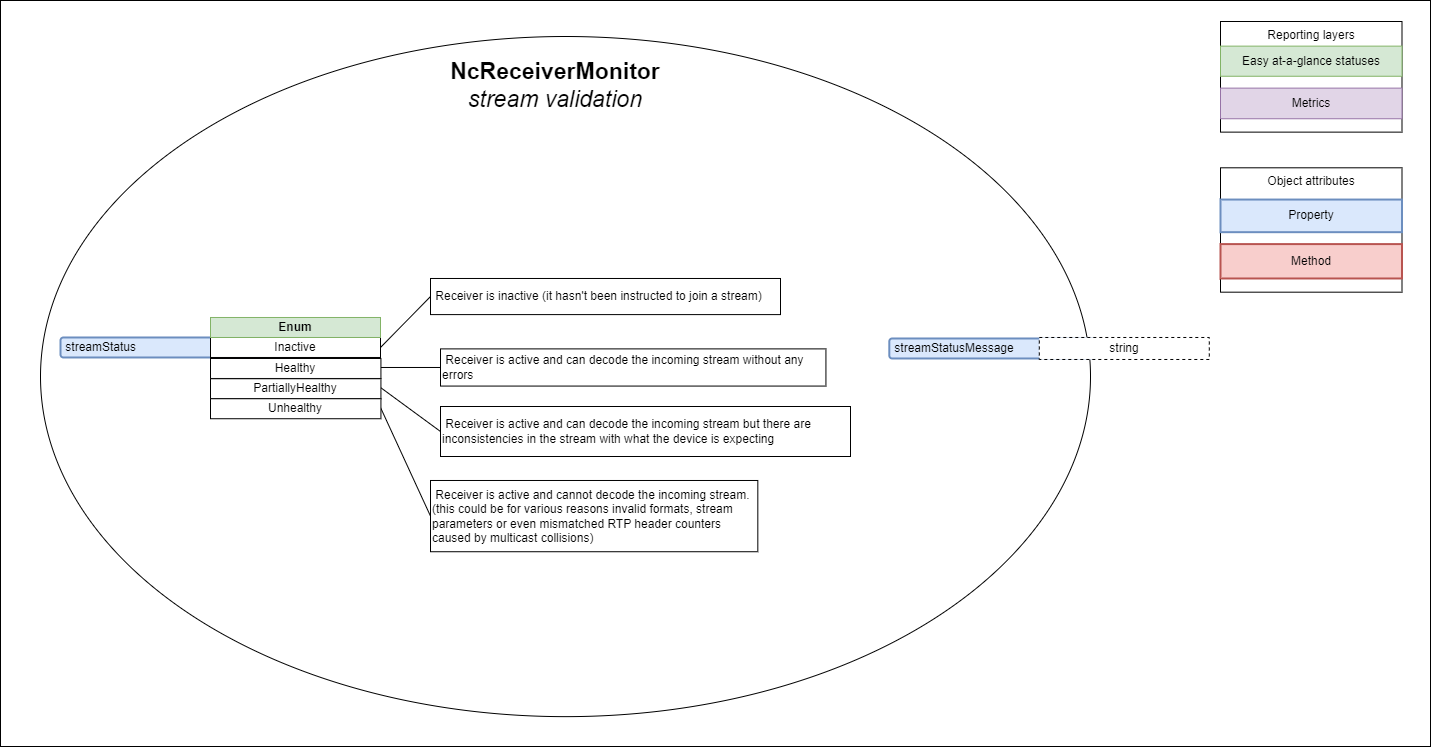
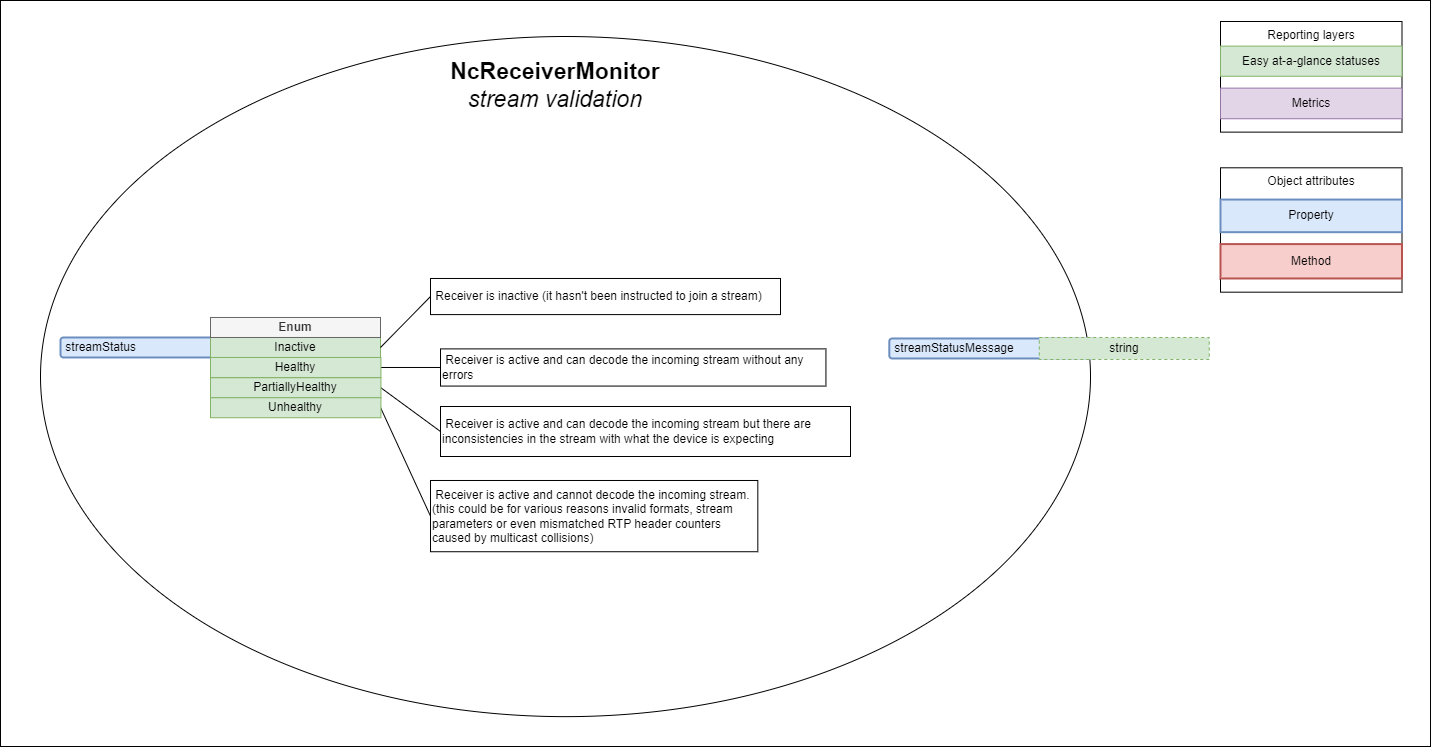
Update specs with feedback from meeting held today

Changed region(s): [[0.123, 0.4003, 0.2767, 0.585], [0.7072, 0.4311, 0.8609, 0.4926]]

diff --git a/docs/Overview.md b/docs/Overview.md
@@ -55,16 +55,16 @@ The technical model describing the monitoring requirements for a receiver is [Nc
 
 This model MUST inherit from the baseline status monitoring model [NcStatusMonitor](https://specs.amwa.tv/nmos-control-feature-sets/branches/publish-status-reporting/monitoring/#ncstatusmonitor)
 
-The purpose of the overall status is to abstract and combine the specific domain statuses of a monitor into a single status which can be more easily observed and displayed by a simple client. A good practice is to populate the status message property with details of the worst status causing the current value of the overall status.
+The purpose of the overallStatus is to abstract and combine the specific domain statuses of a monitor into a single status which can be more easily observed and displayed by a simple client. A good practice is to populate the status message property with details of the worst status causing the current value of the overallStatus.
 
-`Note`: The overall status might remain the same even when specific domain statuses change but the overall status message might change because a different combination of internal states is causing the current overall status value.
+`Note`: The overallStatus might remain the same even when specific domain statuses change but the overallStatusMessage might change because a different combination of internal states is causing the current overallStatus value.
 
-Devices MUST follow the rules listed below when mapping specific domain statuses in the combined overall status:
+Devices MUST follow the rules listed below when mapping specific domain statuses in the combined overallStatus:
 
-* When the Receiver is Inactive the overall status uses the Inactive option
-* When the Receiver is Active the overall status takes the worst state across the different domains (if one status is PartiallyHealthy (or equivalent) and another is Unhealthy (or equivalent) then the overall status would be Unhealthy)
-* The overall status is Healthy only when all domain statuses are either Healthy or a neutral state (e.g. Not used)
-* When activating a Receiver, it is expected for devices to go through a period of instability when connecting to the new stream. The overall status transitions immediately to a Healthy state and delays the reporting of errors for a configurable amount of time (see `statusReportingDelay`) after which it can transition to PartiallyHealthy or Unhealthy by taking the worst state across the different domains.
+* When the Receiver is Inactive the overallStatus uses the Inactive option
+* When the Receiver is Active the overallStatus takes the worst state across the different domains (if one status is PartiallyHealthy (or equivalent) and another is Unhealthy (or equivalent) then the overallStatus would be Unhealthy)
+* The overallStatus is Healthy only when all domain statuses are either Healthy or a neutral state (e.g. Not used)
+* When activating a Receiver, it is expected for devices to go through a period of instability when connecting to the new stream. The overallStatus transitions immediately to a Healthy state and delays the reporting of errors for a configurable amount of time (see `statusReportingDelay`) after which it can transition to PartiallyHealthy or Unhealthy by taking the worst state across the different domains.
 
 The `statusReportingDelay` property allows clients to customize the reporting delay used by devices to report statuses. Devices MUST use 3s as the default value. All status reporting properties MUST delay the transition to a more healthy state by the configured `statusReportingDelay` value and MUST only make the transition if the healthier state is maintained for the duration (this does not apply when starting from neutral values like Inactive or NotUsed where devices MUST make an immediate transition). All status reporting properties MUST make a transition to a less healthy state as soon as possible.
 
@@ -94,9 +94,9 @@ This includes the following specific items which cover the connectivity domain:
 |:--:|
 | _**Receiver connectivity**_ |
 
-### Link status monitoring
+### Link status
 
-Link status monitoring allows devices to expose the health of all the physical links associated with the receiver.
+The linkStatus property allows devices to expose the health of all the physical links associated with the receiver.
 
 Devices specify if:
 
@@ -104,9 +104,9 @@ Devices specify if:
 * Some of the interfaces are Down (equivalent to a PartiallyHealthy state)
 * All interfaces are Down (equivalent to an Unhealthy state)
 
-The link status message is a nullable property where devices can offer the reason and further details as to why the current status value was chosen.
+The linkStatusMessage is a nullable property where devices can offer the reason and further details as to why the current status value was chosen.
 
-Devices are recommended to publish information about which interfaces are down in the link status message.
+Devices are recommended to publish information about which interfaces are down in the linkStatusMessage.
 
 Example:
 
@@ -114,11 +114,9 @@ Example:
 NIC1, NIC2 are down
 ```
 
-### Connection status monitoring
+### Connection status
 
-Connection status monitoring allows devices to expose the health of the receiver with regards to receiving stream packets successfully.
-
-`Note`: Other connection problems like 802.1x authorization, DHCP and other causes are also reflected in the connection status.
+The connectionStatus property allows devices to expose the health of the receiver with regards to receiving stream packets successfully. Other connection problems like 802.1x authorization, DHCP and other causes are also reflected in the connectionStatus.
 
 Devices specify:
 
@@ -127,11 +125,11 @@ Devices specify:
 * PartiallyHealthy when the receiver is Active and is receiving all required packets but some form of loss recovery is being used (e.g. redundant leg recovery or some form of FEC)
 * Unhealthy when the receiver is Active and is either not receiving any packets or receiving packets but has unrecoverable errors (such as late or lost packets)
 
-The connection status message is a nullable property where devices can offer the reason and further details as to why the current status value was chosen.
+The connectionStatusMessage is a nullable property where devices can offer the reason and further details as to why the current status value was chosen.
 
 ### Late and lost packets
 
-The receiver monitoring model provides means of gathering metrics around late and lost stream packets. These are not statuses but instead enable further analysis when [link status](#link-status-monitoring) or [connection status](#connection-status-monitoring) indicate problems.
+The receiver monitoring model provides means of gathering metrics around late and lost stream packets. These are not statuses but instead enable further analysis when [link status](#link-status) or [connection status](#connection-status) indicate problems (are PartiallyHealthy or Unhealthy).
 
 The feature is expressed with the following methods:
 
@@ -147,8 +145,8 @@ The technical model describing the monitoring requirements for a receiver is [Nc
 This includes the following specific items which cover the synchronization domain:
 
 * Properties
-  * synchronizationStatus
-  * synchronizationStatusMessage
+  * externalSynchronizationStatus
+  * externalSynchronizationStatusMessage
   * synchronizationSourceId
 * Methods
   * ApproveCurrentSynchronizationSource
@@ -157,20 +155,20 @@ This includes the following specific items which cover the synchronization domai
 |:--:|
 | _**Receiver synchronization**_ |
 
-### Synchronization status monitoring
+### External synchronization status
 
-Synchronization status monitoring allows devices to expose the health of the receiver with regards to its time synchronization mechanisms.
+The externalSynchronizationStatus property allows devices to expose the health of the receiver with regards to its time synchronization mechanisms.
 
 Devices specify:
 
 * When the receiver is not using external synchronization (is a neutral state)
-* When the receiver synchronization status is healthy (locked to a synchronization source)
-* When the receiver synchronization status is partially healthy (partially locked to a synchronization source or suffered a sync source transition)
-* When the receiver synchronization status is unhealthy (not locked to a synchronization source)
+* When the receiver external synchronization status is healthy (locked to an approved external synchronization source)
+* When the receiver external synchronization status is partially healthy (locked to an external synchronization source and is expected to receive synchronization from multiple interfaces but some are not providing synchronization or suffered a sync source transition)
+* When the receiver external synchronization status is unhealthy (is expected to use external synchronization but is not locked to any external synchronization source)
 
-The synchronization status message is a nullable property where devices can offer the reason and further details as to why the current status value was chosen.
+The externalSynchronizationStatusMessage is a nullable property where devices can offer the reason and further details as to why the current status value was chosen.
 
-Devices are recommended to publish information about the previous synchronization source and interface retrieved from as well as the current synchronization source and interface retrieved from in the synchronization status message.
+Devices are recommended to publish information about the previous synchronization source and interface retrieved from as well as the current synchronization source and interface retrieved from in the externalSynchronizationStatusMessage.
 
 Example:
 
@@ -186,13 +184,13 @@ previousSync:0x70:35:09:ff:fe:c7:da:00 from NIC1, currentSync: 0x00:0c:ec:ff:fe:
 
 ### Synchronization source change
 
-When devices are configured to use synchronization they MUST publish the synchronization source id currently being used and update the property whenever it changes, using `null` if a synchronization source cannot be discovered. For devices which are not using synchronization this property MUST be set to `null`.
+When devices are configured to use external synchronization they MUST publish the synchronization source id currently being used and update the property whenever it changes, using `null` if a synchronization source cannot be discovered. Devices which are not using external synchronization MUST populate this property with `internal`.
 
-When devices suffer a synchronization source change the synchronizationStatus property MUST transition to a `PartiallyUnhealthy` state and stay there unless the following conditions apply:
+When devices suffer a synchronization source change the externalSynchronizationStatus property MUST transition to a `PartiallyUnhealthy` state and stay there unless the following conditions apply:
 
-* The device returns to using the previous sync source and therefore can transition synchronizationStatus to `Healthy` if there are no other synchronization issues
-* A client invokes the ApproveCurrentSynchronizationSource and therefore the receiver can transition synchronizationStatus to `Healthy` if there are no other synchronization issues
-* The receiver is Activated and therefore MUST approve the current sync source and transition synchronizationStatus to `Healthy` if there are no other synchronization issues
+* A client invokes the ApproveCurrentSynchronizationSource and therefore the receiver can transition externalSynchronizationStatus to `Healthy` if there are no other synchronization issues
+* The receiver is Activated and therefore MUST approve the current sync source and transition externalSynchronizationStatus to `Healthy` if there are no other synchronization issues
+* The device returns to using the previous sync source and therefore can transition externalSynchronizationStatus to `Healthy` if there are no other synchronization issues
 
 ## Receiver stream validation
 
@@ -207,9 +205,9 @@ This includes the following specific items which cover the stream validation dom
 |:--:|
 | _**Receiver stream validation**_ |
 
-### Stream status monitoring
+### Stream status
 
-Stream status monitoring allows devices to expose the health of the receiver with regards to the validity of the stream being received.
+The streamStatus property allows devices to expose the health of the receiver with regards to the validity of the stream being received.
 
 Devices specify:
 
@@ -218,12 +216,16 @@ Devices specify:
 * PartiallyHealthy when the receiver is Active and can decode the incoming stream but there are inconsistencies in the stream with what the device is expecting
 * Unhealthy when the receiver is active and cannot decode the incoming stream
 
-The stream status message is a nullable property where devices can offer the reason and further details as to why the current status value was chosen.
+The streamStatusMessage is a nullable property where devices can offer the reason and further details as to why the current status value was chosen.
 
 Examples:
 
 ```log
 Unexpected stream format
+```
+
+```log
+Payload ID in RTP stream does not match SDP file
 ```
 
 ```log
